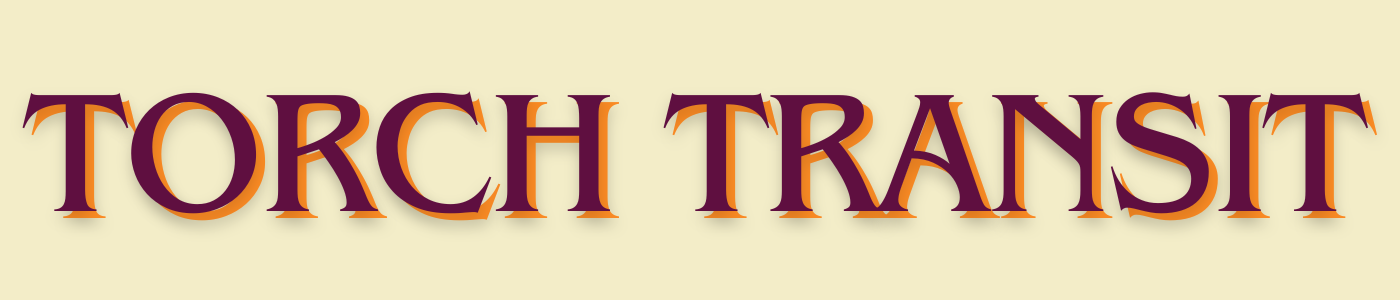
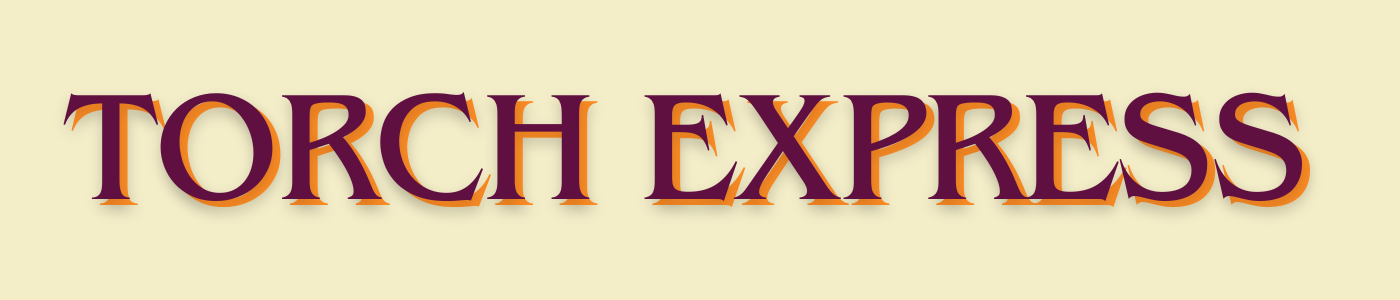
file changes

Changed region(s): [[0.0, 0.3, 0.9829, 0.75]]

diff --git a/src/src/components/Mytrips.jsx b/src/src/components/Mytrips.jsx
@@ -64,7 +64,7 @@ const Mytrips = () => {
           {reservations.map((reservation) => (
             <Card key={reservation._id} className="reservation-card mb-3">
               <Card.Body>
-              <Card.Img src="/Torch Transit.png"></Card.Img>
+              <Card.Img src="/Torch Express.png"></Card.Img>
               <Card.Header as="h3" className="reservation-date text-center">{new Date(reservation?.busService?.collectionTime).toLocaleDateString('en-GB', { day: '2-digit', month: 'long' })} at {new Date(reservation?.busService?.collectionTime).toLocaleTimeString('en-GB', { hour: '2-digit', minute: '2-digit' })}</Card.Header>
                 <Card.Text className="qr-code text-center mt-3">
                   <QRCode

diff --git a/src/src/components/NavBar.jsx b/src/src/components/NavBar.jsx
@@ -12,7 +12,7 @@ const NavigationBar = ({setIsLoggedIn, isLoggedIn, isAdmin, user }) => {
   return (
     <Navbar expand="lg" className='nav-bar'>
       <Container>
-        <Navbar.Brand as={Link} to="/"><img src="/public/Torch Transit.png" alt="Logo" className='img-fluid header'/></Navbar.Brand>
+        <Navbar.Brand as={Link} to="/"><img src="/public/Torch Express.png" alt="Logo" className='img-fluid header'/></Navbar.Brand>
         <Navbar.Toggle aria-controls="basic-navbar-nav" />
         <Navbar.Collapse id="basic-navbar-nav">
           <Nav className= "mx-auto d-flex justify-content-start w-100">

diff --git a/src/index.html b/src/index.html
@@ -8,7 +8,7 @@
 <link rel="preconnect" href="https://fonts.gstatic.com" crossorigin>
 <link href="https://fonts.googleapis.com/css2?family=Varela+Round&display=swap" rel="stylesheet">
     <meta name="viewport" content="width=device-width, initial-scale=1.0" />
-    <title>Torch Transit</title>
+    <title>Torch Express</title>
   </head>
   <body>
     <div id="root"></div>

diff --git a/src/src/components/Footer.jsx b/src/src/components/Footer.jsx
@@ -1,7 +1,7 @@
 const Footer = () => {
     return (
             <footer className="footer">
-                <p className="text-center mb-0">© Torch Transit 2024</p>
+                <p className="text-center mb-0">© Torch Express 2024</p>
             </footer>
           ) 
         }

diff --git a/src/src/tests/App.test.jsx b/src/src/tests/App.test.jsx
@@ -9,6 +9,6 @@ describe('App Component', () => {
             <App />
         )
 
-        expect(screen.getByText('© Torch Transit 2024')).toBeDefined()
+        expect(screen.getByText('© Torch Express 2024')).toBeDefined()
     })
 })

diff --git a/README.md b/README.md
@@ -1,4 +1,4 @@
-# T3A2B-Torch-Transit-Front-End
+# T3A2B-Torch-Express-Front-End
 
 ## Initialisation
 `cd src`
